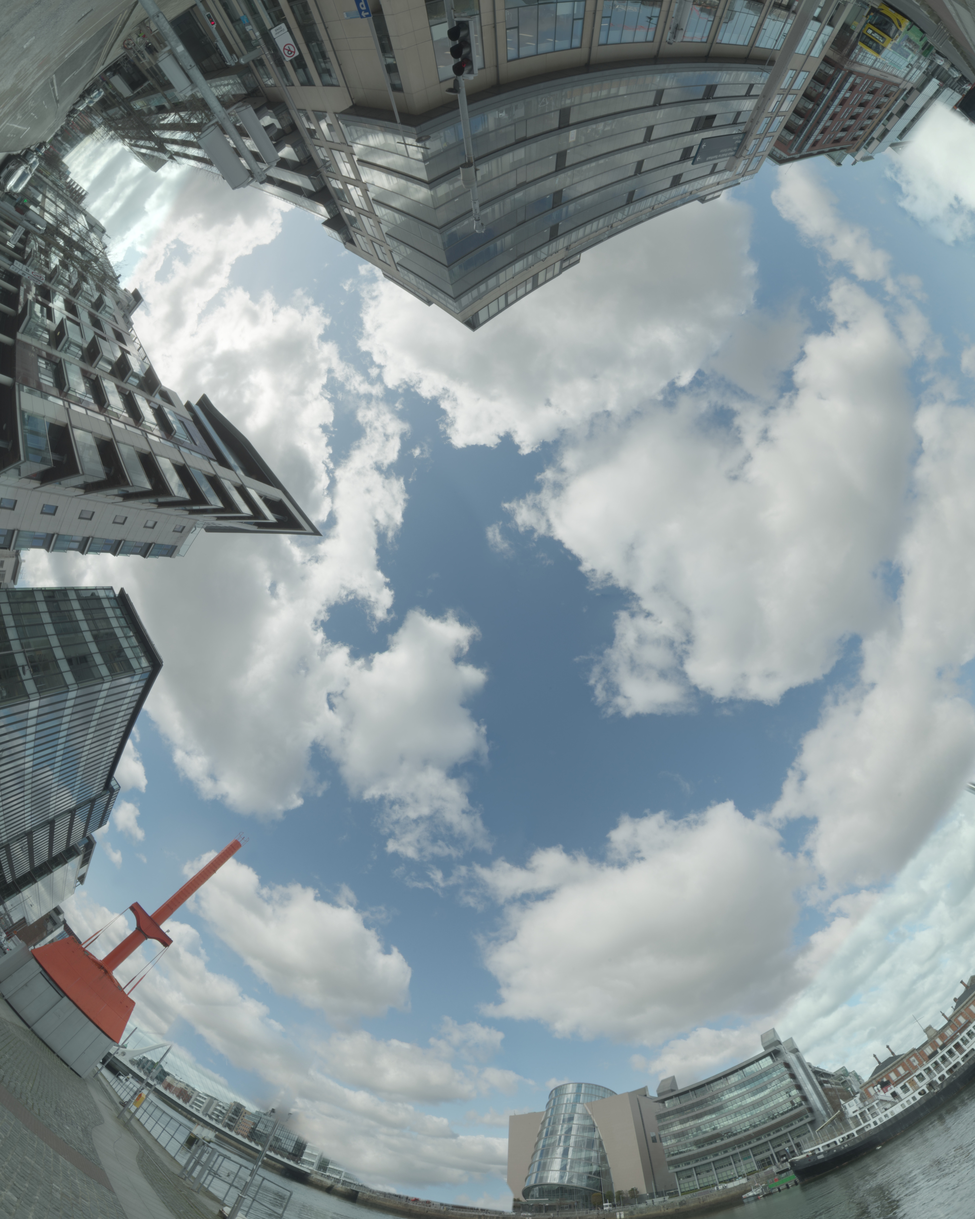
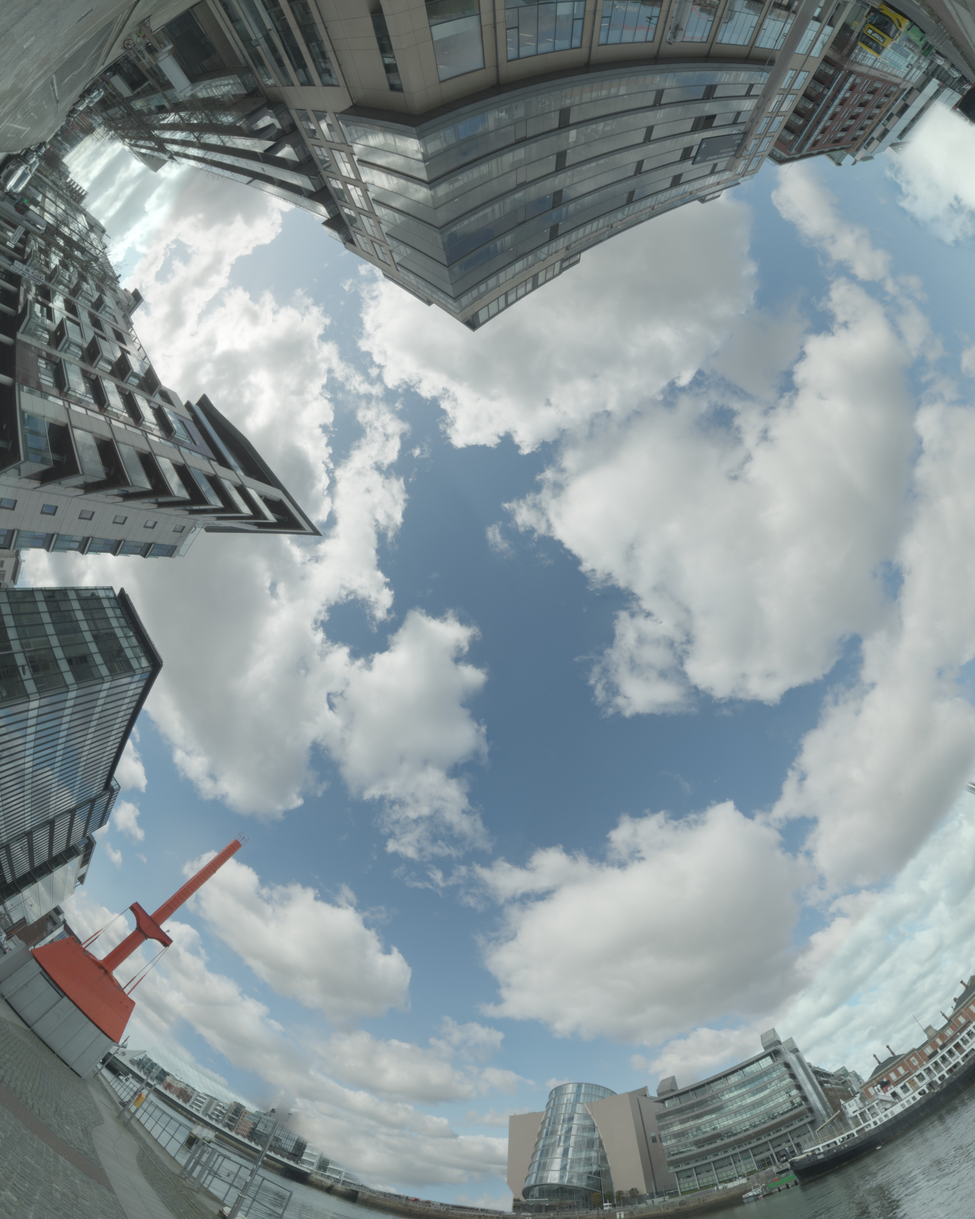
Lab: climb polariser round 1
Claude-Session: https://claude.ai/code/session_01RqENhngNCzDFmJWDZueXGV

diff --git a/src/app/lab/polariser/polariserEngine.js b/src/app/lab/polariser/polariserEngine.js
@@ -32,7 +32,10 @@ import { createFilm, FILM_PRESETS } from "../_kit/film";
 // the first framing had at its edges (the construction block and red tower
 // crane, lamp arms) are filled with the plate's own sky
 // (tools/depth/bakes/polariser/clean.py), so the mast is the print's only
-// strong warm colour.
+// strong warm colour; and the street furniture on the quay under the camera
+// (a banner pole, signal heads, signs, lamp poles), which hung soft across
+// the block's corner at the top left, is filled with the block's facade, so
+// the mast is the only sharp anchor too.
 // The print is not that stereographic crop: a 140° stereographic field bowed
 // every roofline into a circle round the frame. Each print pixel is instead a
 // direction in a general perspective projection centred on the zenith
@@ -60,11 +63,13 @@ const CAM = { yaw: 120, pitch: 84, roll: 50, hfov: 149.09834806856665, aspect: 4
 // of the bow out of the block's edges and the quay while the corners still
 // reach 90° out, and it magnifies the rim, where the towers stand, against the
 // open sky in the middle. The 4:5 window is HALF plane units half-wide,
-// centred SHIFT from the image of the plate's axis (toward the apartment block
-// and the pointed tower) and turned TURN degrees about the zenith, so the
-// block's face spans the top and the vanishing point sits right of and below
-// the centre: the towers rush toward it from the top and the left.
-const VIEW = { k: 0.5, half: 1.8, shift: [-0.17, 0.15], turn: -8 };
+// centred SHIFT from the image of the plate's axis (toward the pointed tower
+// and down toward the quay) and turned TURN degrees about the zenith, so the
+// block's corner walls the top, the tower and the glass block the left, and
+// the mast, the convention centre and its glass drum the foot, and the
+// vanishing point sits right of and above the centre: the towers rush toward
+// it from three sides.
+const VIEW = { k: 0.5, half: 1.8, shift: [-0.2, -0.1], turn: -10 };
 // Mip bias on the plate and aux lookups. The print minifies the plate over
 // most of the frame, and plain trilinear filtering would blend in the next
 // mip down, which is coarser than the print, so the towers would come out
@@ -80,7 +85,7 @@ const K = 0.6;
 // The filter angle that deepens this frame most (mean sky transmission is
 // lowest there, tools/depth/bakes/polariser/view.py, through the print's own
 // projection); the hero still and the end of the reveal.
-const HERO = 0.193;
+const HERO = 0.183;
 // Effective maximum degree of polarisation. A clean Rayleigh sky reaches about
 // 0.75, but a March cumulus sky is multiply scattered off bright cloud and a
 // real circular polariser does not extinguish fully, so the band 90° from the

diff --git a/tools/depth/bakes/polariser/clean.py b/tools/depth/bakes/polariser/clean.py
@@ -51,7 +51,8 @@ import fill  # noqa: E402
 kit = fill.kit
 
 TURNED = len(sys.argv) > 1 and sys.argv[1] == '--turned'
-args = sys.argv[2:] if TURNED else sys.argv[1:]
+STREET = len(sys.argv) > 1 and sys.argv[1] == '--street'
+args = sys.argv[2:] if TURNED or STREET else sys.argv[1:]
 src, srcaux, dst, dstaux = args[:4]
 maskout = args[4] if len(args) > 4 else ''
 img = np.asarray(Image.open(src).convert('RGB')).astype(np.float32) / 255
@@ -112,6 +113,62 @@ if TURNED:
     print('lama calls', lama.calls, 'secs', round(lama.secs, 1))
     a = cv2.GaussianBlur(hole.astype(np.float32), (0, 0), 3)
     save(img, sky_aux(aux, np.maximum(a, hole)))
+    sys.exit()
+
+
+# ------------------------------------------------------------------ street furniture
+# python3 -I clean.py --street plate.jpg aux.png out_plate.jpg out_aux.png [mask.png]
+# runs last, on the plate --turned wrote (its coordinates). The closest things
+# in the print were street furniture on the quay under the camera, hanging
+# soft and half-cropped across the apartment block's corner at the top left,
+# where the eye landed on them before the red mast:
+#  - the galvanised banner pole with its two banner boxes, the pedestrian
+#    signal head on its own pole and that pole's arm;
+#  - the thin sign pole with the 'Control zone' and no-parking signs, and the
+#    small signs at its foot;
+#  - the 'P' sign, its street-name plate and its pole, with the lamp head
+#    and bracket halfway down;
+#  - the traffic signal head with its backplate, bracket and pole.
+# The hole is street.png (white = fill), plate px 400-2200 x 0-1100: SAM 2.1
+# (tools/depth/segment.py prompt, on that crop of the plate) with points on
+# each pole and box, components under 3000 px dropped (stray hits on the
+# walkway lattice), plus hand shapes for what SAM missed (the sign pole as a
+# 24 px line from crop 575,0 to 882,684, the traffic head's backplate and
+# bracket, the pole above the head, the street-name plate, the arm, the
+# lamp head), all grown by a 15 px disc so the soft edges and the halo go.
+# Everything behind them is the block's facade, its glazed balconies and the
+# walkway, with a sliver of sky under the banner boxes, so LaMa fills it from
+# the facade round each hole (each pole is a separate, narrow hole, so the
+# fill has the window grid on both sides to continue). The aux channels are
+# filled from their surroundings (Telea), so the sky channel follows the
+# facade's outline across the holes and the glass channels stay as they were.
+# The print's window, shifted down toward the quay so the convention centre
+# and its drum stand up into the bottom right (view.py), also brings the tip
+# of the harp bridge's white pylon and its cables up past the print's foot,
+# right of the lightship's hull: thin white lines poking into the sky. That
+# hole (plate px, the print's foot crosses it from 441,4052 to 696,4164) is
+# filled the same way and its aux set to sky, as the frame-edge fragments
+# above were.
+if STREET:
+    OX, OY = 400, 0
+    sm = np.asarray(Image.open(os.path.join(os.path.dirname(os.path.abspath(__file__)), 'street.png')).convert('L')) > 127
+    hole = np.zeros((H, W), bool)
+    hole[OY:OY + sm.shape[0], OX:OX + sm.shape[1]] = sm
+    harp = poly([(495, 4015), (655, 4030), (730, 4090), (730, 4210), (600, 4210), (485, 4095)])
+    hole |= harp
+    print('hole', round(hole.mean() * 100, 3), '% of the plate')
+    if maskout:
+        Image.fromarray((hole * 255).astype(np.uint8)).save(maskout)
+        if os.environ.get('MASK_ONLY'):
+            sys.exit()
+    lama = fill.Lama(threads=4)
+    img = fill.fill(img, hole, 'lama', lama=lama, grain=True, feather=8)
+    print('lama calls', lama.calls, 'secs', round(lama.secs, 1))
+    q = np.clip(np.round(aux * 255), 0, 255).astype(np.uint8)
+    hm = hole.astype(np.uint8)
+    aux = cv2.inpaint(q, hm, 9, cv2.INPAINT_TELEA).astype(np.float32) / 255
+    a = cv2.GaussianBlur(harp.astype(np.float32), (0, 0), 3)
+    save(img, sky_aux(aux, np.maximum(a, harp)))
     sys.exit()
 
 

diff --git a/tools/depth/bakes/polariser/view.py b/tools/depth/bakes/polariser/view.py
@@ -15,11 +15,17 @@
 # still reaching 90 deg out in the corners (rectilinear would need an
 # infinite plane), and it magnifies the rim, where the towers are, against the
 # middle, where the open sky is.
-# The window is a shift lens on that plane: off the axis toward the apartment
-# block and the pointed tower, which is where Docklands' height is, and turned
-# 8 deg so the block's face spans the top. The zenith (the vanishing point)
-# sits right of and below the print's centre, the block walls the top, the
-# tower and the glass block the left, the mast and the drum the foot.
+# The window is a shift lens on that plane: off the axis toward the pointed
+# tower and the glass block, which is where Docklands' height is, and down
+# toward the quay, and turned 10 deg about the zenith, so the convention
+# centre and its glass drum stand up whole into the bottom right instead of
+# a bowed sliver along the foot. (An earlier window, shifted up toward the
+# apartment block and turned 8 deg, held more of the block's face but left
+# the right half and the foot open sky, so the canyon read on two sides.)
+# The zenith (the vanishing point) sits right of and above the print's
+# centre: the block's corner walls the top and points at it, the tower and
+# the glass block wall the left, the mast and the drum and its neighbour
+# the foot, and all of them converge on it.
 import os, sys
 import numpy as np, cv2
 from PIL import Image
@@ -31,8 +37,8 @@ HFOV = 149.09834806856665
 SUN = (38.12255859375, 28.762207031249996)
 K = 0.5            # general perspective: 0 rectilinear .. 1 stereographic
 HALF = 1.8         # half-width of the 4:5 window, plane units
-SHIFT = (-0.17, 0.15)  # window centre from the image of the camera axis, plane units (y up)
-TURN = -8.0        # deg, window turned about the zenith
+SHIFT = (-0.2, -0.1)  # window centre from the image of the camera axis, plane units (y up)
+TURN = -10.0       # deg, window turned about the zenith
 
 Z = np.array([0.0, 1.0, 0.0])
 f, R, U = basis(*CAM)

diff --git a/tools/depth/bakes/polariser/plate.py b/tools/depth/bakes/polariser/plate.py
@@ -13,6 +13,8 @@
 #      perspective window; engine VIEW and HERO)
 #   -> clean.py --turned turned/plate.jpg out_aux.png plate.jpg aux.png (the
 #      fragment that window brings in: the distant slatted tower top left)
+#   -> clean.py --street plate.jpg aux.png plate.jpg aux.png (the street
+#      furniture across the block's corner, street.png)
 # aux_old.png for reproj.py: git show 39c5ed8:public/lab/polariser/aux.png > aux_old.png
 # HDRI: Poly Haven docklands_01 at 16k, its native maximum (the 8k gave the
 # plate only about 11 px/deg at the frame centre, so facades and window grids
